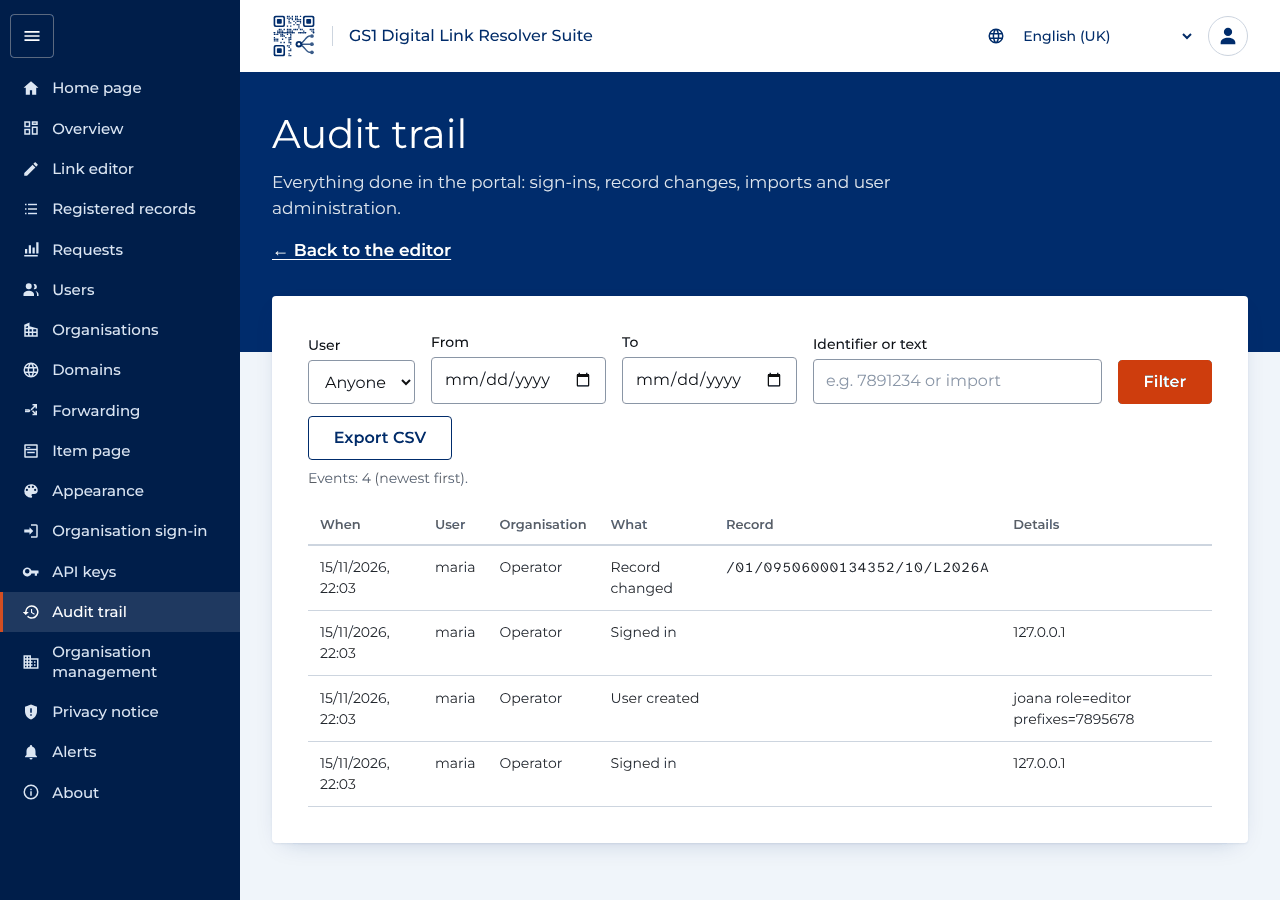
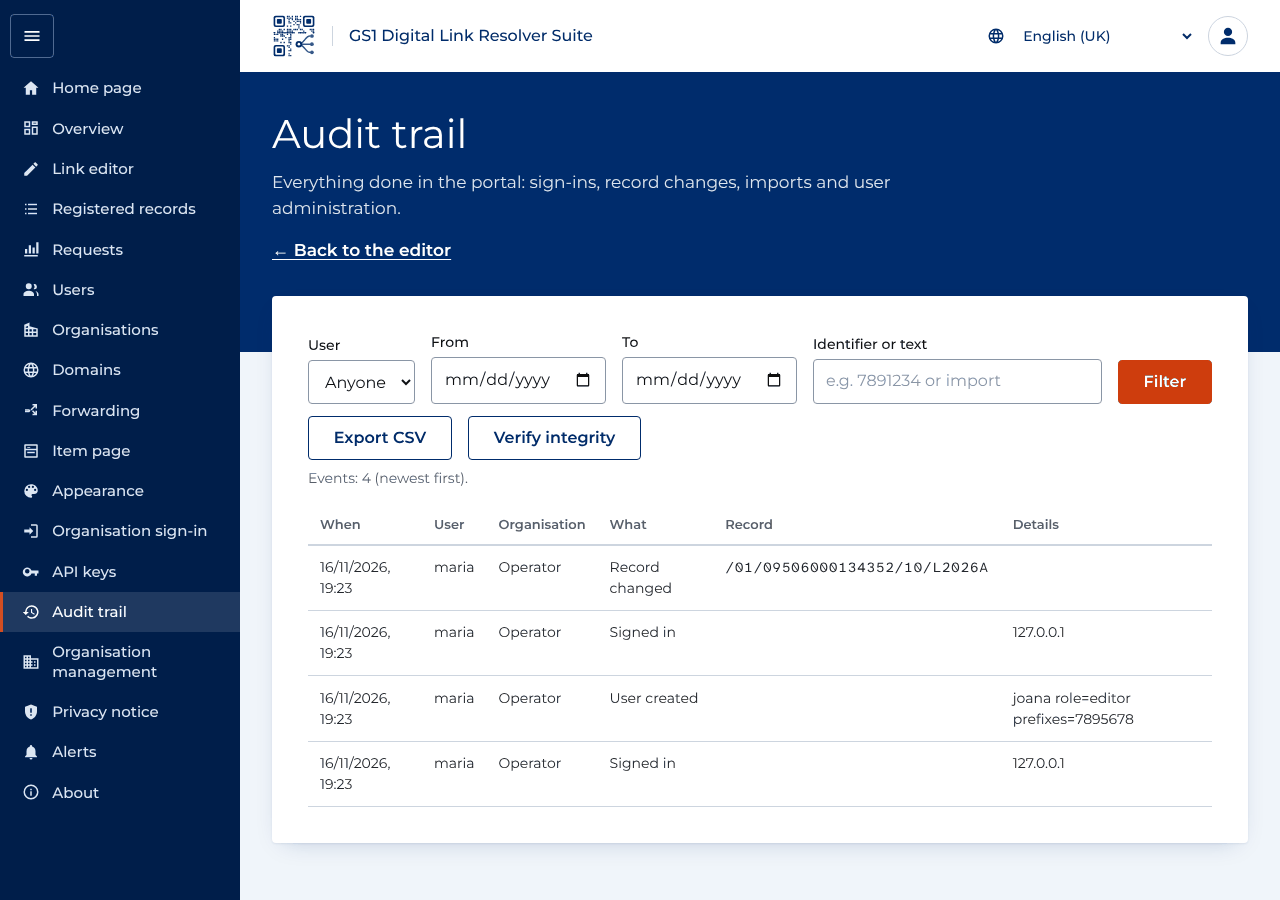
docs: the journal written first and sealed in the changelog, features, user guide and history
F-008 fixed in ad116df (ADR 0026, step 1): the changelog's session 39
entry (with the new PORTAL_JOURNAL_KEY for operators), two feature rows
with their checks, the user guide's audit trail section (the refusal,
Change not completed, Verify integrity and receipts) and its image, and the
history's session 39.

Claude-Session: https://claude.ai/code/session_01AV1osuHSDep2rVrsv9JEDE

diff --git a/Documentation/extensions/CHANGELOG.md b/Documentation/extensions/CHANGELOG.md
@@ -5,6 +5,26 @@
 Change of behaviour an integrator may notice: the official data entry API (`/api`, `/swaggerui`) is closed to every
 address that `DATA_ENTRY_API_ALLOW` does not list; organisations' systems use the tenant API.
 
+### The journal: written first, sealed, verified (session 39)
+- **Changed: a record change is journalled before it is made** ([ADR 0026](../adr/0026-journal-integrity.md)). The
+  journal entry of a save or a deletion (the editor, imports, the tenant API, *Fix serial numbers*) used to be written
+  after the data entry API had changed the record, and a failure to write it was only logged, so a record could change
+  without trace. Now the entry comes first; when the portal's database cannot take it, the change is refused with
+  *The audit journal could not be written* (503) and nothing is changed. A change the data entry API then refuses
+  adds an entry *Change not completed* naming the attempt; the record's history leaves such attempts out. The changes
+  the portal makes to a key's other records when it turns them to explicit default links are now journalled too.
+- **Added: every journal entry is sealed in a hash chain**, one per audit trail (each organisation's, the operator's)
+  and kind of entry (sign-ins, records, administration), with a key that stays outside the database
+  (`PORTAL_JOURNAL_KEY`). Changing, removing or inserting an entry, even directly in MongoDB or in a backup, breaks the
+  chain. Entries written before this version are sealed at the first start (marked so). **Operators:** the installer
+  adds `PORTAL_JOURNAL_KEY` to `.env` (an installation updated with `git pull` adds it by hand, see the release notes);
+  keep it with the other secrets, apart from the backups; `scripts/rotate-secrets.sh journal` replaces it. Without
+  it the portal starts and warns that the chains have no key.
+- **Added: *Verify integrity* on the Audit trail screen** (administrators): one line per chain with its result and its
+  head, a short text to copy and keep outside the server as a receipt; a receipt pasted later is looked for in its
+  chain. The worker verifies every chain once a day and writes each head to the portal's log. Twelve languages.
+  Commit `ad116df`.
+
 ### Single sign-on: domains proved, verified e-mail, the provider's subject (session 38)
 - **Changed: an e-mail domain of a single sign-on configuration signs people in only once proved**
   ([ADR 0025](../adr/0025-sso-domain-proof-and-subject.md)). Typing a domain used to claim it: any organisation's

diff --git a/Documentation/features.md b/Documentation/features.md
@@ -223,6 +223,8 @@ How to use the portal: [portal user guide](portal-user-guide.md). How each featu
 | Users screen | Create with a temporary password shown once, change role and prefixes, reset, disable, remove; at least one active administrator | `71b15f2` | `governance` · `portal_e2e`: users |
 | Record history | Every version saved through the portal, with restore | `71b15f2` | `governance`: history |
 | Audit trail | Sign-ins, changes, imports, exports, administration; filters; CSV | `71b15f2` | `governance`: audit · `store`: audit |
+| Journal written first | A record change (editor, import, tenant API, serial-number fix, explicit default links) is journalled before the data entry API is called and refused with 503 when it cannot be; a failed change adds *Change not completed*, left out of the history ([ADR 0026](adr/0026-journal-integrity.md)) | `ad116df` | `journal`: event written before · `journal`: journal.unavailable · `journal`: change-failed names the attempt · `journal`: explicit default links are journalled |
+| Journal integrity | Every entry sealed in a hash chain per audit trail and kind, with an HMAC key outside the database (`PORTAL_JOURNAL_KEY`); entries of earlier versions sealed at the upgrade; *Verify integrity* on the audit trail with heads kept as receipts; a daily check that logs each head ([ADR 0026](adr/0026-journal-integrity.md)) | `ad116df` | `store`: verify · `store`: racing · `store`: receipt · `store`: daily checkpoint · `journal`: sealed when the portal starts · `journal`: verifies the chains of its own trail |
 | Organisations (tenants) | An organisation owns GS1 Company Prefixes (one organisation per prefix, no overlaps); its records and users are its own; the operator owns whatever belongs to no organisation, and an installation without organisations works as before ([ADR 0002](adr/0002-tenants.md)) | `1590b7e`, `675b6ca` | `tenants` |
 | Server administrator | The operator's administrators manage organisations and every user; an organisation's administrator only its users | `1590b7e`, `675b6ca` | `tenants`: server administrator |
 | Support access | Read-only access of a server administrator to one organisation, with a reason recorded in its audit trail; a banner while it is open | `1590b7e`, `675b6ca` | `tenants`: support access |

diff --git a/Documentation/portal-user-guide.md b/Documentation/portal-user-guide.md
@@ -1068,6 +1068,20 @@ administrator did to the organisation (its users, its prefixes, support access) 
 *operator*. The server administrator sees the operator's trail, with an **Organisation** column and everything
 the operator's users did to organisations; an organisation's whole trail only during support access.
 
+A change to a record is written to the audit trail before it is made. If the trail cannot be written (the portal's
+database is unavailable), the portal refuses the change — *The audit journal could not be written* — and nothing is
+changed; try again in a moment. When the resolver then refuses a change, the trail shows *Change not completed* after
+the attempt, and the record's history leaves the attempt out.
+
+**Verify integrity.** Every event is sealed in a chain: one per organisation and kind of event (*Sign-ins*, *Records*,
+*Administration*), each event bound to the one before it with a key that is not kept in the database, so an event
+changed, removed or added afterwards — even directly in the database or in a backup — breaks its chain. **Verify
+integrity** shows one line per chain: its events, *Intact* or *Broken* with the problem and the event where it starts,
+and its **head (receipt)**, a text such as `t-…/record:128:9f2c…`. Copy the heads now and then and keep them outside the
+server (a ticket, an e-mail to yourself): paste one later under **Check a receipt** to confirm that nothing up to it
+has changed. A broken chain, or a warning that the journal key is not set, is for the server administrator; the
+portal also checks every chain once a day and records each head in its log.
+
 ## 16. Requests to the resolver
 
 ![Requests](images/guide/requests.png)

diff --git a/Documentation/history.md b/Documentation/history.md
@@ -1271,6 +1271,18 @@ earlier keep their domains, marked as accepted at the upgrade. 33 new checks in 
 caught after one check was added. The session also added F-005's staging steps to the test plan of sessions 32 to 37, and fixed finding F-017 (`8b6d643`):
 the operator's provider test was open to any organisation's administrator.
 
+## Session 39 — the journal written first and sealed
+
+The eighth finding of the security assessment's phase 1, step 1 of its record
+([ADR 0026](adr/0026-journal-integrity.md)), in one code commit (`ad116df`): a record change is journalled before the
+data entry API is called and refused when the journal cannot be written, a failed one followed by `change-failed`;
+every event is sealed in a hash chain per audit trail and retention category, with an HMAC whose key
+(`PORTAL_JOURNAL_KEY`) stays outside the database; events of earlier versions are sealed at the upgrade;
+administrators verify the chains on the Audit trail screen and keep their heads as receipts, and the worker verifies
+them daily and logs the heads. A new test program (`journal`, 27 checks) and 32 new checks in `store`, which also runs
+against a real MongoDB in the continuous integration; 25 mutations, all caught after one check was added. Insert-only
+access to the journal and an alert by e-mail are the record's step 2.
+
 | Area | 1.0.0 (session 1) | Now |
 |---|---|---|
 | Identification | GTIN + optional batch | 16 primary keys and 9 qualifiers, with the combinations of the standard |
